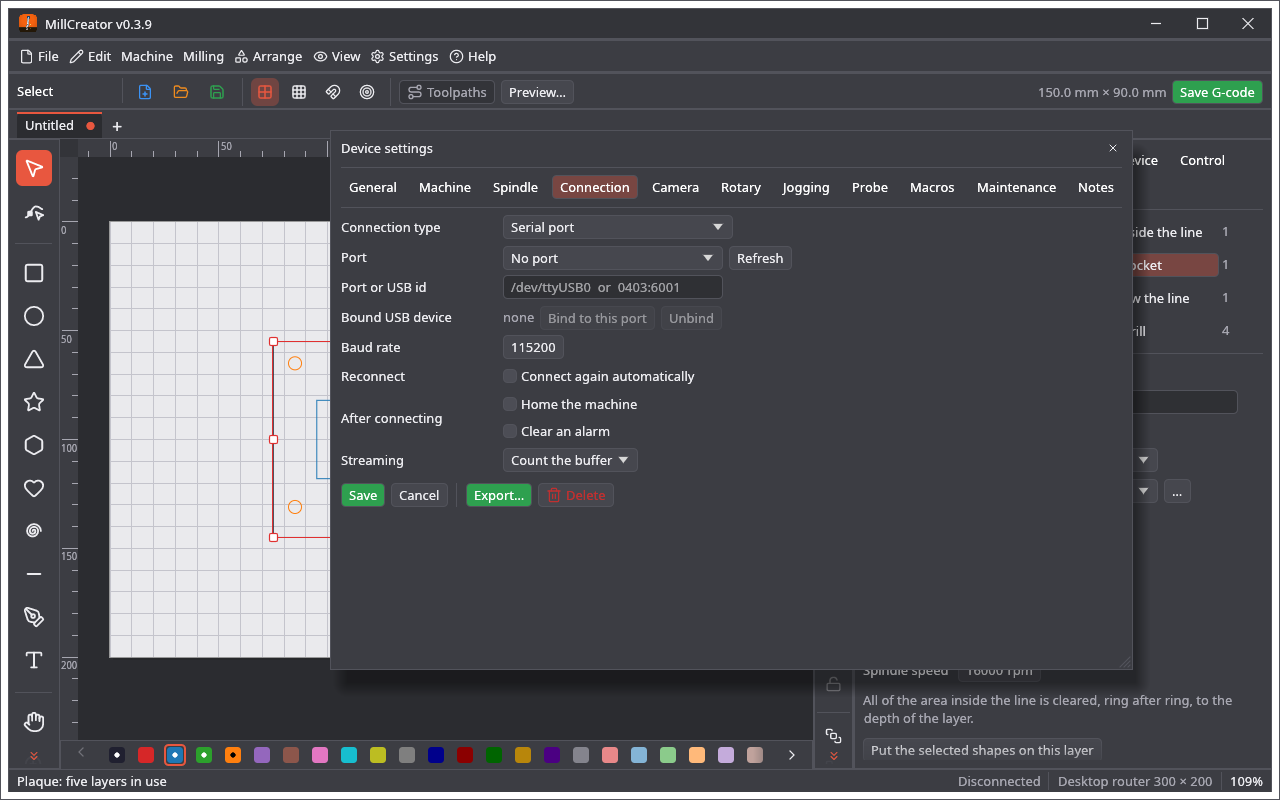
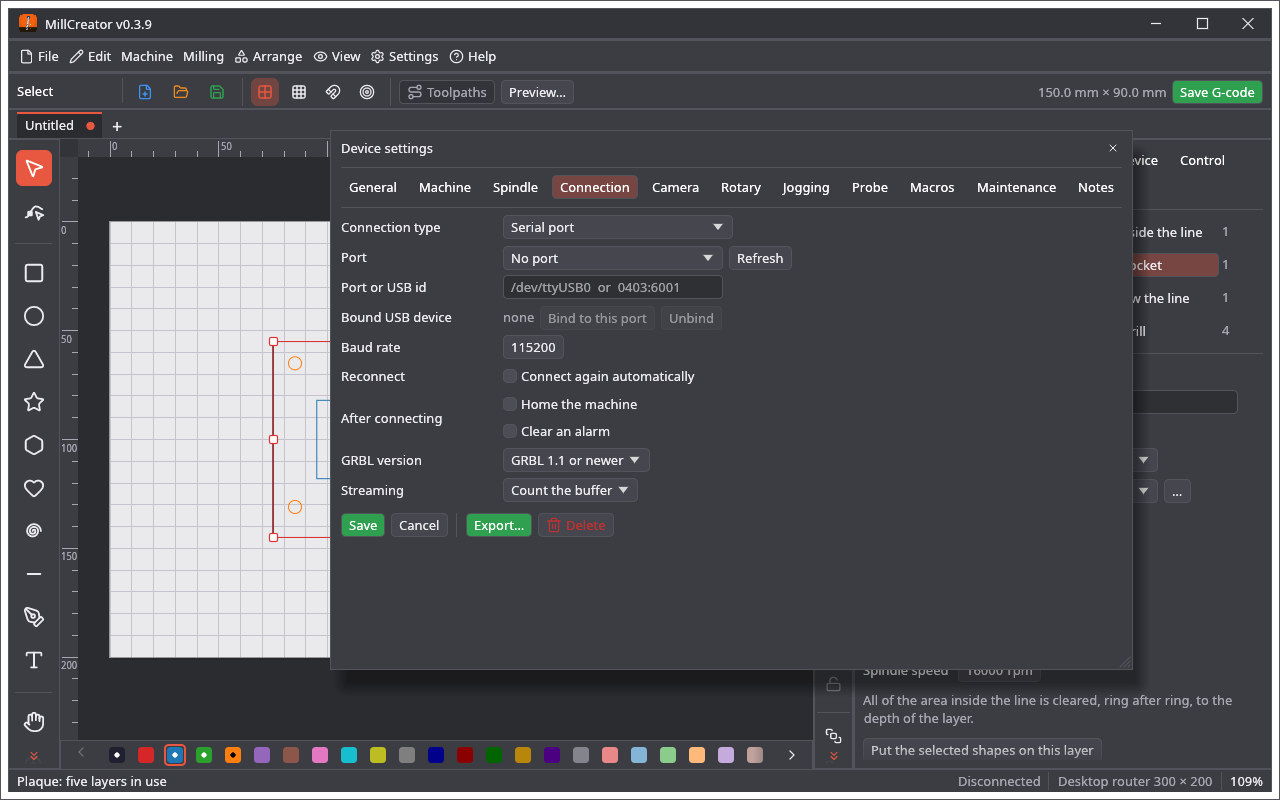
GRBL versions 0.7 to 1.1 and newer: a choice on the Connection page; pin baseCreator v1.23.0

Changed region(s): [[0.25, 0.5625, 0.5, 0.6875]]

diff --git a/crates/millcreator/src/device_ui.rs b/crates/millcreator/src/device_ui.rs
@@ -3,7 +3,7 @@
 use crate::device::{self, Device, Origin, DUMMY_NAME, MAX_DEVICES};
 use crate::App;
 use base_core::camimg::{CameraKind, CameraSource};
-use base_core::machine::{LinkKind, RotaryKind, Streaming};
+use base_core::machine::{GrblVersion, LinkKind, RotaryKind, Streaming};
 use base_core::units::Units;
 use base_ui::camera::{self, rotate_rgb};
 use base_ui::camera_stream::{self, Msg};
@@ -399,6 +399,15 @@ impl App {
                                     ui.label(RichText::new(tr("Clearing the alarm skips homing: use it only when the head is known to stand in a safe place.")).color(Color32::from_rgb(0xe8, 0x8a, 0x1f)));
                                 }
                             });
+                            ui.end_row();
+                            ui.label(tr("GRBL version"));
+                            egui::ComboBox::from_id_salt("grbl_dialect").selected_text(tr(d.connection.grbl_version.label())).show_ui(ui, |ui| {
+                                for k in GrblVersion::ALL {
+                                    ui.selectable_value(&mut d.connection.grbl_version, k, tr(k.label()));
+                                }
+                            })
+                            .response
+                            .on_hover_text(tr("Older GRBL (0.9) reports positions in another format and has no jog command: the program moves the head with ordinary moves instead."));
                             ui.end_row();
                             ui.label(tr("Streaming"));
                             egui::ComboBox::from_id_salt("streaming").selected_text(tr(d.connection.streaming.label())).show_ui(ui, |ui| {

diff --git a/crates/millcreator/src/machine_ui.rs b/crates/millcreator/src/machine_ui.rs
@@ -38,6 +38,7 @@ impl App {
             self.status = tr("Choose a port or a host in the device settings first.").to_string();
             return;
         };
+        self.machine.set_grbl_version(self.device.connection.grbl_version);
         self.machine.connect(target, self.device.connection.streaming);
     }
 

diff --git a/FEATURES.md b/FEATURES.md
@@ -10,7 +10,7 @@
 * **Bit library:** ready-made bits and your own, kept for every device; kinds: flat end mill, ball nose, bull nose, V-bit, engraving bit, tapered ball nose, drill; a picture of every kind with the letter of each dimension where it is measured; feeds and speeds as starting points; import and export of bits as JSON; a project carries the bits it uses.
 * **Material:** wood (light, medium, dark), metal, plastic (any colour), thickness; an optional **first pass** (0.1 mm by default) along the edges of every layer before its normal passes, to break the top of the material cleanly.
 * **Toolpaths:** offsets by the radius of the bit, passes down to the depth, rings for pockets, a safe height, estimate of the length and the time, and warnings.
-* **The machine:** a GRBL controller on a serial port or a network socket (port, baud rate, streaming, homing or clearing an alarm after connecting, reconnecting by itself); Connect, Home, Unlock, Pause / Resume, Frame (the box of the work at the safe height), Start and Stop, a **Console** tab (the traffic with the controller, a line to send a command) and the position; Save G-code on the control bar.
+* **The machine:** a GRBL controller on a serial port or a network socket (port, baud rate, the GRBL version from 0.7 to 1.1 and newer, streaming, homing or clearing an alarm after connecting, reconnecting by itself); Connect, Home, Unlock, Pause / Resume, Frame (the box of the work at the safe height), Start and Stop, a **Console** tab (the traffic with the controller, a line to send a command) and the position; Save G-code on the control bar.
 * **Rotary attachment:** chuck or rollers, workpiece diameter, microsteps per turn; the drawing may not be higher than the way round the workpiece (warning).
 * **Toolpaths button** (in the bar over the work area, with Preview… and Camera view): the paths drawn over the work area; **Camera view** window of the live camera. START and STOP, and under them **Frame** (always the left one) and **From line…** with icons, in a row of two, are in the Control tab.
 * **3D view:** block of the material, cuts as wide as the bit, moves at the safe height, turn, zoom, move, reset, from above as a plan, an animation (play, pause, speed ×0.25 to ×25, repeat) with a progress slider and the bit marked; the shown area is 10 % larger than the project.

diff --git a/docs/wiki/Sterowanie-maszyna.md b/docs/wiki/Sterowanie-maszyna.md
@@ -53,6 +53,8 @@ Każde urządzenie przechowuje kopie ustawień swojego kontrolera (`$$`). Pierws
 
 ## Alarmy i błędy
 
+**Wersje GRBL.** Wersję płyty wybierasz w polu *GRBL version* na stronie Połączenie urządzenia: **1.1 lub nowszy** (domyślnie; także grblHAL i FluidNC), **1.0**, **0.9**, **0.8** albo **0.7 lub starszy**. GRBL 0.8, 0.9 i 1.0 podają położenie jako `<Idle,MPos:…,WPos:…>` i nie mają polecenia `$J=`, więc program przesuwa głowicę zwykłymi ruchami `G91` / `G1`; takiego ruchu nie da się przerwać w połowie, kończy się na końcu swojego kroku. GRBL 0.7 nie ma żadnych poleceń czasu rzeczywistego: nie ma raportu stanu (więc i położenia), Pauzy, Wznowienia, bazowania ani odblokowania, a Stop tylko porzuca wiersze, które jeszcze nie poszły, bo płyta dokończy to, co już ma; ten firmware ucina też wiersze dłuższe niż 49 znaków. Wrzeciono (`M3 S…`) działa tak samo w każdej wersji.
+
 Gdy GRBL powie `ALARM:n` albo `error:n`, konsola dostaje pod spodem wiersz z wyjaśnieniem, a pasek stanu je pokazuje. Wyjaśnienia są w 30 językach programu.
 
 > ⚠ Sondowanie, przesuw i pauzy wysyłają prawdziwe ruchy. Miej zatrzymanie w zasięgu ręki.

diff --git a/docs/wiki/Machine-Control.md b/docs/wiki/Machine-Control.md
@@ -53,6 +53,8 @@ Every device keeps copies of the settings of its controller (`$$`). One is made 
 
 ## Alarms and errors
 
+**GRBL versions.** Choose the version of the board under *GRBL version* on the device's Connection page: **1.1 or newer** (the default; also grblHAL and FluidNC), **1.0**, **0.9**, **0.8** or **0.7 or older**. GRBL 0.8, 0.9 and 1.0 report the position as `<Idle,MPos:…,WPos:…>` and have no `$J=` jog command, so the program jogs with ordinary `G91` / `G1` moves; such a jog cannot be cancelled halfway, it runs to the end of its step. GRBL 0.7 has no real-time commands at all: no status report (so no position), no Pause, Resume, Home or Unlock, and Stop only drops the lines not yet sent while the board finishes what it already has; that firmware also cuts lines longer than 49 characters. The spindle (`M3 S…`) works the same with every version.
+
 When GRBL says `ALARM:n` or `error:n`, the console gets a line under it that explains it, and the status bar shows it. The explanations are in the 30 languages of the program.
 
 > ⚠ Probing, jogging and the pauses send real moves. Keep the stop within reach.

diff --git a/README.md b/README.md
@@ -34,7 +34,7 @@ The wiki has the full documentation in English and Polish: <https://github.com/m
 * **Preview:** a window with the block of material, the cuts and the moves at the safe height, in 3D (turn / zoom /
   reset) or from above as a plan, with an animation (play, pause, speed, repeat); the shown area is 10 % larger than the
   project. The **Toolpaths** button of the control bar draws the paths over the work area.
-* **The machine:** a GRBL controller on a serial port or a network socket (set in the device: port, baud rate, streaming,
+* **The machine:** a GRBL controller on a serial port or a network socket (set in the device: port, baud rate, the GRBL version from 0.7 to 1.1 and newer, streaming,
   homing after connecting); **Connect**, **Home**, **Frame** (the tool goes round the box of the work at the safe
   height), **Start** (also **From line…** and a check of the program in the controller's check mode) and **Stop** of
   the job, **Save G-code**, pause and resume, a console. The **Control** tab has the work and machine position, zero
